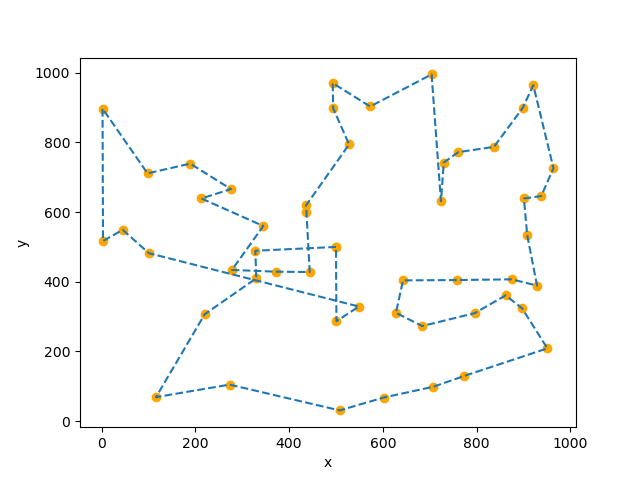
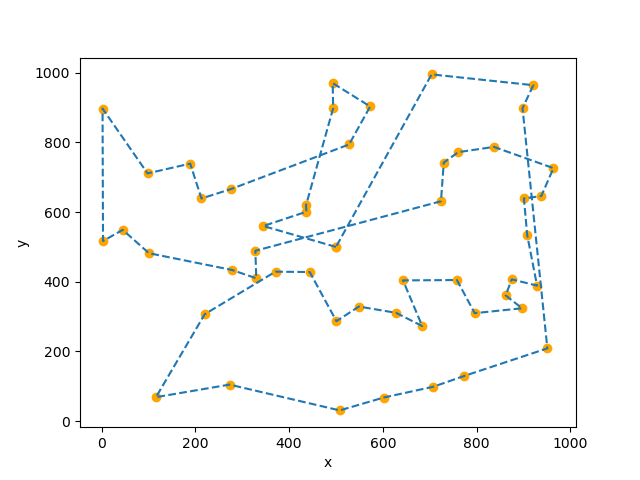
[ADD] Main function

diff --git a/main.py b/main.py
@@ -1,0 +1,8 @@
+from hive import Hive
+
+def main():
+    hive = Hive()
+    hive.genetics_algorythm()
+
+if  __name__ == "__main__":
+    main()
